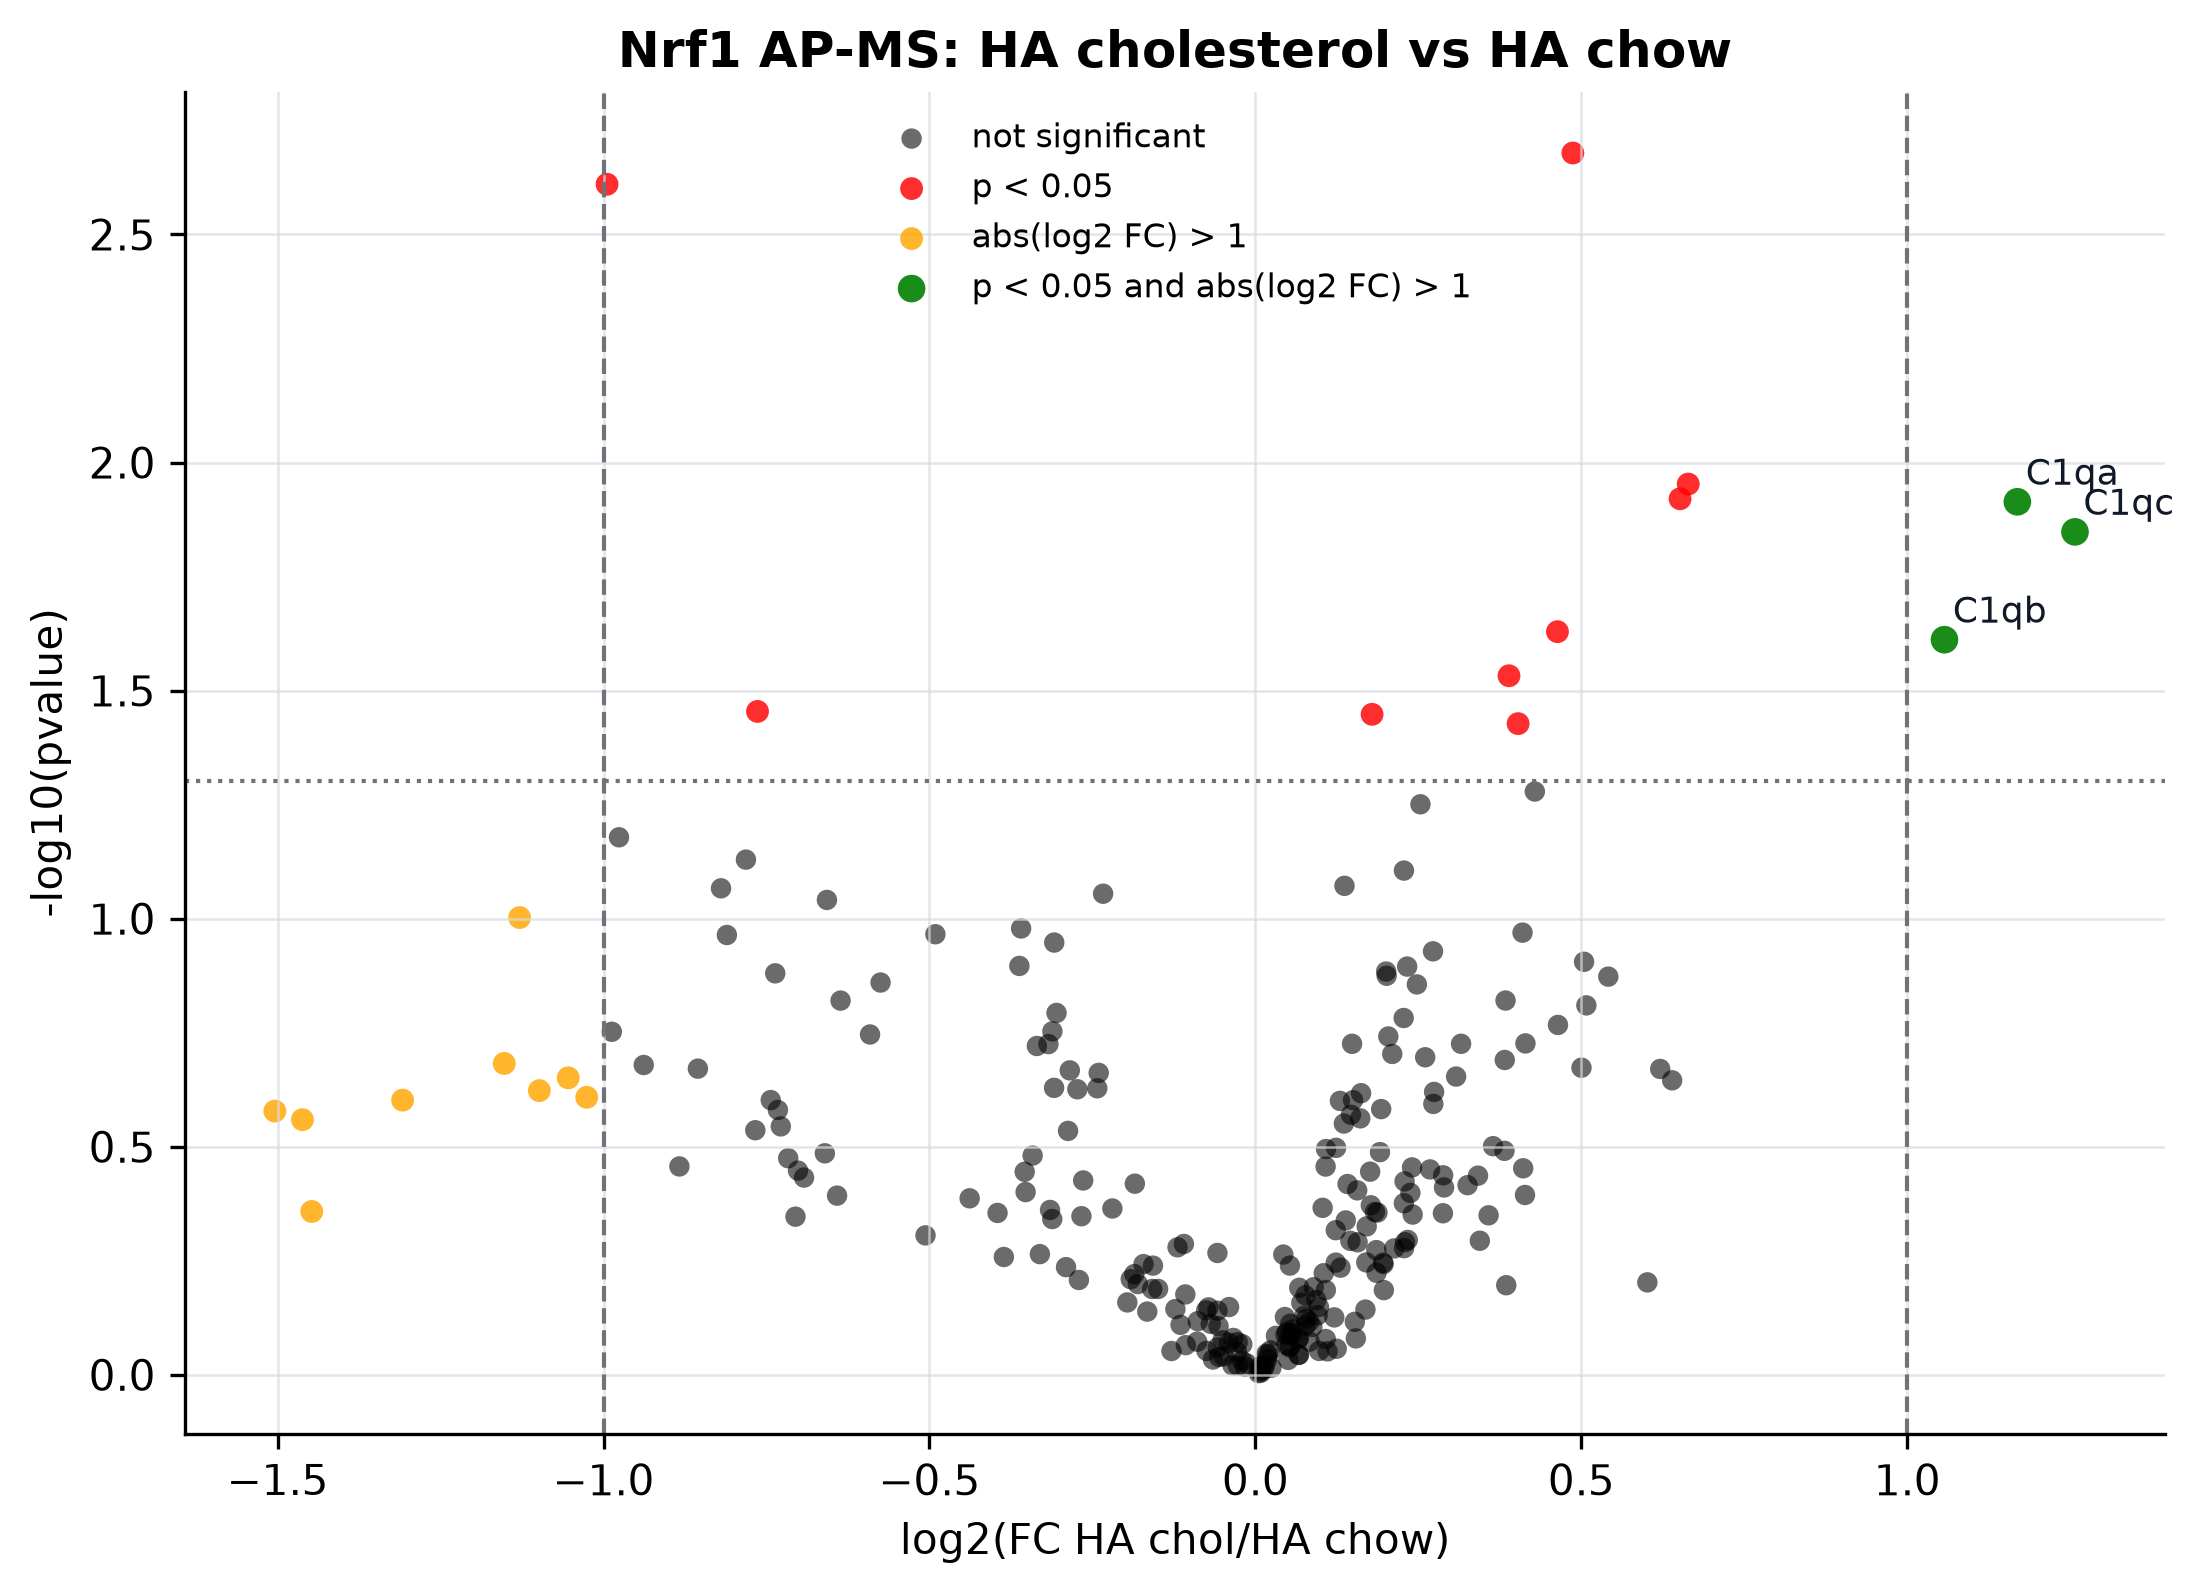
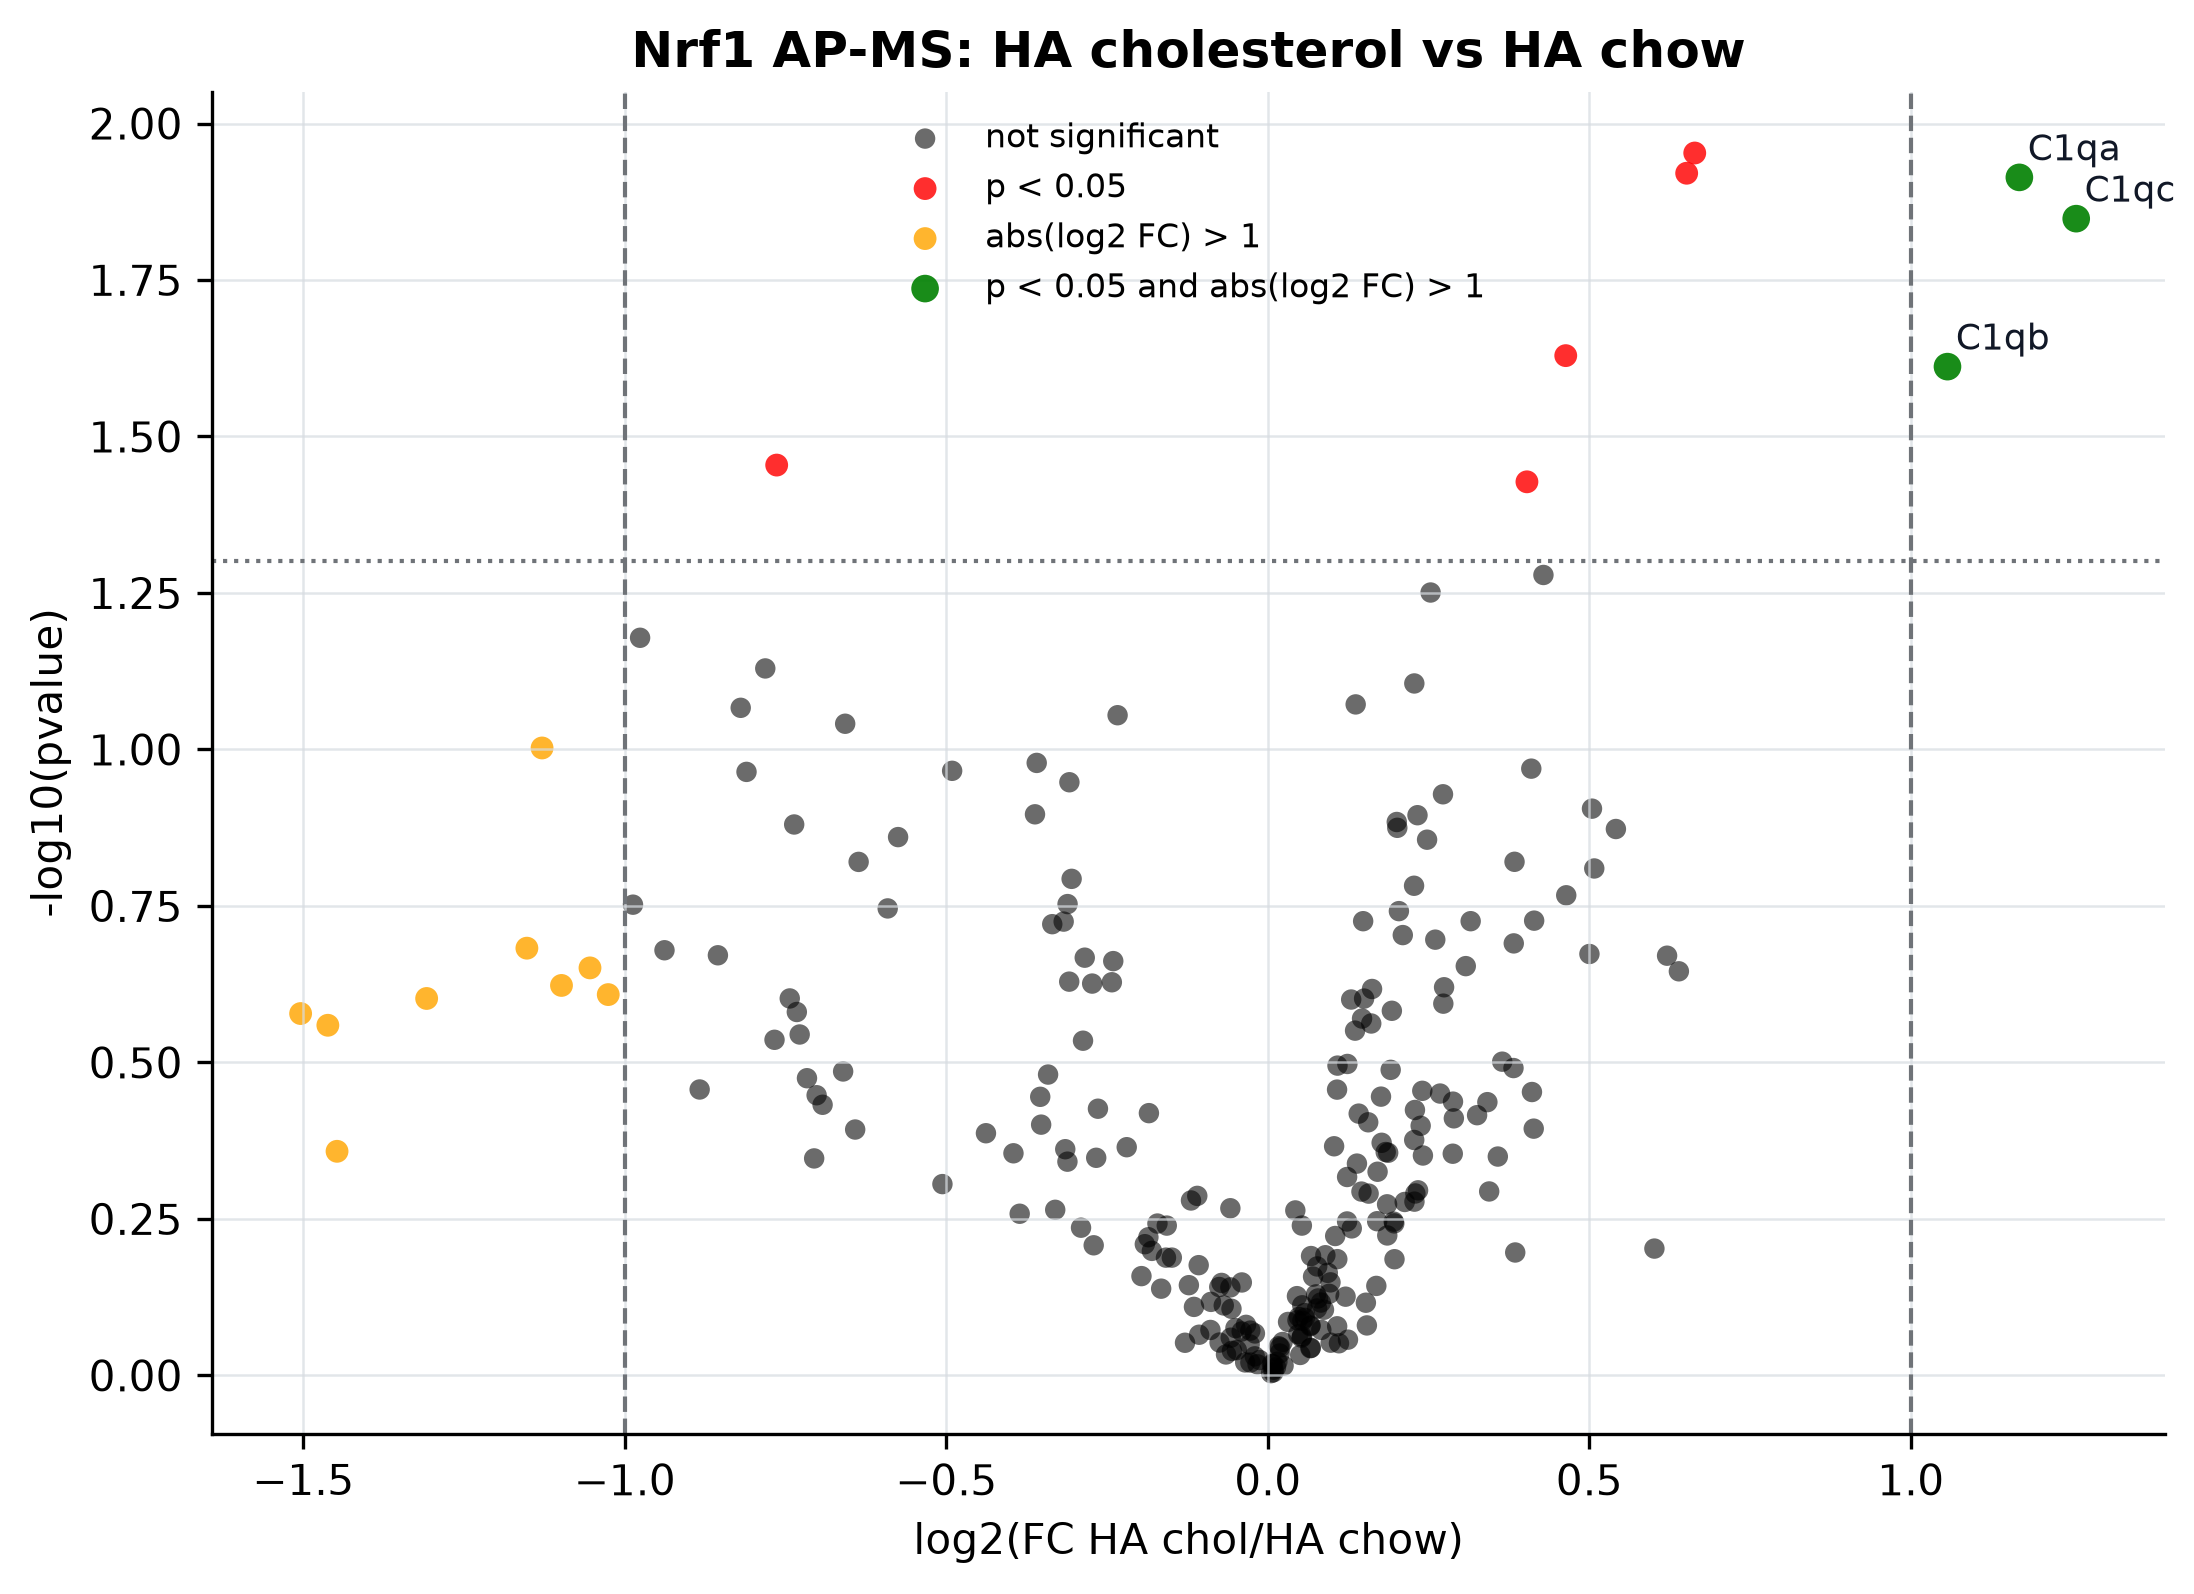
Validate t-test assumptions in volcano plots
Volcano plots currently classify every t-test p-value below 0.05 as
significant without recording whether the source data satisfy normality
and equal-variance assumptions. This can retain assumption-violating
hits and hide the diagnostics needed to review each comparison.

This commit will add t-test assumption validation diagnostics.
Shapiro-Wilk tests will be used to assess normality within each
treatment group, and median-centered Levene tests will be used to assess
homogeneity of variance for each t-test. Points that fail assumptions
will be omitted from plots.

- https://docs.scipy.org/doc/scipy/reference/generated/scipy.stats.levene.html
- https://docs.scipy.org/doc/scipy/reference/generated/scipy.stats.shapiro.html
- https://docs.scipy.org/doc/scipy/reference/generated/scipy.stats.ttest_ind.html

diff --git a/src/nrf1_proteomics/analysis.py b/src/nrf1_proteomics/analysis.py
@@ -98,9 +98,23 @@ OUTPUT_COLUMNS = (
     "log2_FC_HAchol_HAchow",
     "log2_FC_HAchow_lacZ",
     "pvalue",
+    "levene_statistic_HAchol_HAchow",
+    "levene_pvalue_HAchol_HAchow",
     "pvaluechow",
+    "levene_statistic_HAchow_lacZ",
+    "levene_pvalue_HAchow_lacZ",
     "log2_FC_HAbort_HAchow",
     "pvaluebort",
+    "levene_statistic_HAbort_HAchow",
+    "levene_pvalue_HAbort_HAchow",
+    "shapiro_statistic_lacZ",
+    "shapiro_pvalue_lacZ",
+    "shapiro_statistic_HAchow",
+    "shapiro_pvalue_HAchow",
+    "shapiro_statistic_HAchol",
+    "shapiro_pvalue_HAchol",
+    "shapiro_statistic_HAbort",
+    "shapiro_pvalue_HAbort",
 )
 
 
@@ -214,21 +228,37 @@ def _calculate_pvalues(ratios: pl.DataFrame) -> pl.DataFrame:
 
     for raw_row in ratios.select(ratio_columns).iter_rows(named=True):
         row = cast(Mapping[str, object], raw_row)
+        lacz = _row_values(row, GROUP_RATIO_COLUMNS["lacz"])
+        ha_chow = _row_values(row, GROUP_RATIO_COLUMNS["ha_chow"])
+        ha_chol = _row_values(row, GROUP_RATIO_COLUMNS["ha_chol"])
+        ha_bort = _row_values(row, GROUP_RATIO_COLUMNS["ha_bort"])
+        chol_chow_levene = _levene_diagnostics(ha_chol, ha_chow)
+        chow_lacz_levene = _levene_diagnostics(ha_chow, lacz)
+        bort_chow_levene = _levene_diagnostics(ha_bort, ha_chow)
+        lacz_shapiro = _shapiro_diagnostics(lacz)
+        ha_chow_shapiro = _shapiro_diagnostics(ha_chow)
+        ha_chol_shapiro = _shapiro_diagnostics(ha_chol)
+        ha_bort_shapiro = _shapiro_diagnostics(ha_bort)
         rows.append(
             {
                 "protein_id": str(row["protein_id"]),
-                "pvalue": _t_test_pvalue(
-                    _row_values(row, GROUP_RATIO_COLUMNS["ha_chol"]),
-                    _row_values(row, GROUP_RATIO_COLUMNS["ha_chow"]),
-                ),
-                "pvaluechow": _t_test_pvalue(
-                    _row_values(row, GROUP_RATIO_COLUMNS["ha_chow"]),
-                    _row_values(row, GROUP_RATIO_COLUMNS["lacz"]),
-                ),
-                "pvaluebort": _t_test_pvalue(
-                    _row_values(row, GROUP_RATIO_COLUMNS["ha_bort"]),
-                    _row_values(row, GROUP_RATIO_COLUMNS["ha_chow"]),
-                ),
+                "pvalue": _t_test_pvalue(ha_chol, ha_chow),
+                "levene_statistic_HAchol_HAchow": chol_chow_levene[0],
+                "levene_pvalue_HAchol_HAchow": chol_chow_levene[1],
+                "pvaluechow": _t_test_pvalue(ha_chow, lacz),
+                "levene_statistic_HAchow_lacZ": chow_lacz_levene[0],
+                "levene_pvalue_HAchow_lacZ": chow_lacz_levene[1],
+                "pvaluebort": _t_test_pvalue(ha_bort, ha_chow),
+                "levene_statistic_HAbort_HAchow": bort_chow_levene[0],
+                "levene_pvalue_HAbort_HAchow": bort_chow_levene[1],
+                "shapiro_statistic_lacZ": lacz_shapiro[0],
+                "shapiro_pvalue_lacZ": lacz_shapiro[1],
+                "shapiro_statistic_HAchow": ha_chow_shapiro[0],
+                "shapiro_pvalue_HAchow": ha_chow_shapiro[1],
+                "shapiro_statistic_HAchol": ha_chol_shapiro[0],
+                "shapiro_pvalue_HAchol": ha_chol_shapiro[1],
+                "shapiro_statistic_HAbort": ha_bort_shapiro[0],
+                "shapiro_pvalue_HAbort": ha_bort_shapiro[1],
             }
         )
 
@@ -260,3 +290,27 @@ def _t_test_pvalue(sample: Sequence[float], reference: Sequence[float]) -> float
             alternative="two-sided",
         )[1],
     )
+
+
+def _levene_diagnostics(
+    sample: Sequence[float], reference: Sequence[float]
+) -> tuple[float, float]:
+    """Report homogeneity of variance for each Student t-test.
+
+    A median-centered Levene test is used because it is robust to skew and outliers.
+    A variance-ratio F test is sensitive to departures from normality.
+    """
+
+    result = scipy.stats.levene(sample, reference, center="median")
+    return cast(float, result.statistic), cast(float, result.pvalue)
+
+
+def _shapiro_diagnostics(sample: Sequence[float]) -> tuple[float, float]:
+    """Report normality for observations within one treatment group.
+
+    Student t-tests assume normally distributed populations. Shapiro-Wilk is applied to
+    each group's raw observations rather than pooling groups with different means.
+    """
+
+    result = scipy.stats.shapiro(sample)
+    return cast(float, result.statistic), cast(float, result.pvalue)

diff --git a/tests/test_analysis.py b/tests/test_analysis.py
@@ -11,18 +11,32 @@ PROJECT_ROOT = Path(__file__).resolve().parents[1]
 RAW_DATA = PROJECT_ROOT / "data" / "nrf1-proteomics-raw.csv"
 
 
-def test_analysis_returns_historical_shape_and_columns() -> None:
+def test_analysis_returns_expected_shape_and_columns() -> None:
     result = analyze_raw_data(RAW_DATA)
 
-    assert result.shape == (252, 7)
+    assert result.shape == (252, 21)
     assert result.columns == [
         "Gene",
         "log2_FC_HAchol_HAchow",
         "log2_FC_HAchow_lacZ",
         "pvalue",
+        "levene_statistic_HAchol_HAchow",
+        "levene_pvalue_HAchol_HAchow",
         "pvaluechow",
+        "levene_statistic_HAchow_lacZ",
+        "levene_pvalue_HAchow_lacZ",
         "log2_FC_HAbort_HAchow",
         "pvaluebort",
+        "levene_statistic_HAbort_HAchow",
+        "levene_pvalue_HAbort_HAchow",
+        "shapiro_statistic_lacZ",
+        "shapiro_pvalue_lacZ",
+        "shapiro_statistic_HAchow",
+        "shapiro_pvalue_HAchow",
+        "shapiro_statistic_HAchol",
+        "shapiro_pvalue_HAchol",
+        "shapiro_statistic_HAbort",
+        "shapiro_pvalue_HAbort",
     ]
     assert result.filter(pl.col("Gene") == "").height == 3
 
@@ -60,6 +74,29 @@ def test_analysis_finds_expected_cholesterol_hits() -> None:
     )
 
     assert result.filter(pl.col("delta_cholesterol") > 0.58).height == 33
+
+
+def test_analysis_reports_assumption_diagnostics() -> None:
+    result = analyze_raw_data(RAW_DATA)
+
+    assert_gene_values(
+        result,
+        "C1qc",
+        levene_statistic_HAchol_HAchow=0.295478093,
+        levene_pvalue_HAchol_HAchow=0.606322291,
+        levene_statistic_HAchow_lacZ=1.129876915,
+        levene_pvalue_HAchow_lacZ=0.318832044,
+        levene_statistic_HAbort_HAchow=1.862373617,
+        levene_pvalue_HAbort_HAchow=0.221312430,
+        shapiro_statistic_lacZ=0.867348296,
+        shapiro_pvalue_lacZ=0.215838173,
+        shapiro_statistic_HAchow=0.966296036,
+        shapiro_pvalue_HAchow=0.818429709,
+        shapiro_statistic_HAchol=0.901411048,
+        shapiro_pvalue_HAchol=0.438101849,
+        shapiro_statistic_HAbort=0.878424133,
+        shapiro_pvalue_HAbort=0.331949023,
+    )
 
 
 def assert_gene_values(

diff --git a/tests/test_plots.py b/tests/test_plots.py
@@ -10,6 +10,12 @@ PROJECT_ROOT = Path(__file__).resolve().parents[1]
 RAW_DATA = PROJECT_ROOT / "data" / "nrf1-proteomics-raw.csv"
 
 
+def _passing_assumptions(
+    spec: nrf1_proteomics.plots.VolcanoPlotSpec, row_count: int
+) -> dict[str, list[float]]:
+    return {column: [0.5] * row_count for column in spec.assumption_pvalue_columns}
+
+
 def test_prepare_volcano_data_assigns_original_point_colors() -> None:
     spec = nrf1_proteomics.plots.VOLCANO_PLOTS[0]
     analysis = pl.DataFrame(
@@ -17,6 +23,7 @@ def test_prepare_volcano_data_assigns_original_point_colors() -> None:
             "Gene": ["background", "pvalue", "fold_change", "both"],
             spec.x_column: [0.5, 0.5, 1.5, 1.5],
             spec.pvalue_column: [0.5, 0.01, 0.5, 0.01],
+            **_passing_assumptions(spec, 4),
         }
     )
 
@@ -27,6 +34,36 @@ def test_prepare_volcano_data_assigns_original_point_colors() -> None:
         (nrf1_proteomics.plots.PVALUE_ONLY, "red"),
         (nrf1_proteomics.plots.FOLD_CHANGE_ONLY, "orange"),
         (nrf1_proteomics.plots.PVALUE_AND_FOLD_CHANGE, "green"),
+    ]
+
+
+def test_prepare_volcano_data_excludes_invalid_significant_results() -> None:
+    spec = nrf1_proteomics.plots.VOLCANO_PLOTS[0]
+    assumptions = _passing_assumptions(spec, 5)
+    for row_index, column in enumerate(spec.assumption_pvalue_columns):
+        assumptions[column][row_index] = 0.01
+    assumptions[spec.assumption_pvalue_columns[0]][3] = 0.01
+
+    analysis = pl.DataFrame(
+        {
+            "Gene": [
+                "levene_failure",
+                "first_shapiro_failure",
+                "second_shapiro_failure",
+                "nonsignificant_failure",
+                "valid_significant",
+            ],
+            spec.x_column: [0.5, 0.5, 1.5, 0.5, 1.5],
+            spec.pvalue_column: [0.01, 0.01, 0.01, 0.5, 0.01],
+            **assumptions,
+        }
+    )
+
+    plot_data = nrf1_proteomics.plots.prepare_volcano_data(analysis, spec)
+
+    assert plot_data.select("Gene", "volcano_category").rows() == [
+        ("nonsignificant_failure", nrf1_proteomics.plots.BACKGROUND),
+        ("valid_significant", nrf1_proteomics.plots.PVALUE_AND_FOLD_CHANGE),
     ]
 
 
@@ -51,6 +88,7 @@ def test_plot_volcano_labels_points_meeting_both_thresholds() -> None:
             "Gene": ["background", "pvalue", "fold_change", "both_a", "both_b"],
             spec.x_column: [0.5, 0.5, 1.5, 1.5, -1.5],
             spec.pvalue_column: [0.5, 0.01, 0.5, 0.01, 0.01],
+            **_passing_assumptions(spec, 5),
         }
     )
 

diff --git a/src/nrf1_proteomics/plots.py b/src/nrf1_proteomics/plots.py
@@ -18,6 +18,7 @@ from nrf1_proteomics.analysis import DEFAULT_RAW_DATA, PROJECT_ROOT, analyze_raw
 DEFAULT_FIGURE_DIR = PROJECT_ROOT / "figures"
 FOLD_CHANGE_THRESHOLD = 1.0
 PVALUE_THRESHOLD = 0.05
+ASSUMPTION_PVALUE_THRESHOLD = 0.05
 
 BACKGROUND = "not significant"
 PVALUE_ONLY = "p < 0.05"
@@ -43,6 +44,7 @@ class VolcanoPlotSpec:
     filename: str
     x_column: str
     pvalue_column: str
+    assumption_pvalue_columns: tuple[str, ...]
     title: str
     xlabel: str
 
@@ -53,6 +55,11 @@ VOLCANO_PLOTS = (
         filename="results-hachol.png",
         x_column="log2_FC_HAchol_HAchow",
         pvalue_column="pvalue",
+        assumption_pvalue_columns=(
+            "levene_pvalue_HAchol_HAchow",
+            "shapiro_pvalue_HAchol",
+            "shapiro_pvalue_HAchow",
+        ),
         title="Nrf1 AP-MS: HA cholesterol vs HA chow",
         xlabel="log2(FC HA chol/HA chow)",
     ),
@@ -61,6 +68,11 @@ VOLCANO_PLOTS = (
         filename="results-habort.png",
         x_column="log2_FC_HAbort_HAchow",
         pvalue_column="pvaluebort",
+        assumption_pvalue_columns=(
+            "levene_pvalue_HAbort_HAchow",
+            "shapiro_pvalue_HAbort",
+            "shapiro_pvalue_HAchow",
+        ),
         title="Nrf1 AP-MS: HA bortezomib vs HA chow",
         xlabel="log2(FC HA bort/HA chow)",
     ),
@@ -69,6 +81,11 @@ VOLCANO_PLOTS = (
         filename="results-hachow-lacz.png",
         x_column="log2_FC_HAchow_lacZ",
         pvalue_column="pvaluechow",
+        assumption_pvalue_columns=(
+            "levene_pvalue_HAchow_lacZ",
+            "shapiro_pvalue_HAchow",
+            "shapiro_pvalue_lacZ",
+        ),
         title="Nrf1 AP-MS: HA chow vs lacZ",
         xlabel="log2(FC HA chow/lacZ)",
     ),
@@ -80,14 +97,25 @@ def prepare_volcano_data(
     spec: VolcanoPlotSpec,
     fold_change_threshold: float = FOLD_CHANGE_THRESHOLD,
     pvalue_threshold: float = PVALUE_THRESHOLD,
+    assumption_pvalue_threshold: float = ASSUMPTION_PVALUE_THRESHOLD,
 ) -> pl.DataFrame:
-    """Add plotting columns for one volcano plot from an analyzed DataFrame."""
+    """Add plotting columns and omit significant rows that fail assumptions."""
 
     fold_change_significant = pl.col("log2_fold_change").abs() > fold_change_threshold
     pvalue_significant = pl.col("pvalue") < pvalue_threshold
+    assumption_failed = pl.any_horizontal(
+        *(
+            pl.col(column) < assumption_pvalue_threshold
+            for column in spec.assumption_pvalue_columns
+        )
+    )
+    significant_assumption_failure = (
+        pl.col(spec.pvalue_column) < pvalue_threshold
+    ) & assumption_failed
 
     return (
-        analysis.select(
+        analysis.filter(~significant_assumption_failure)
+        .select(
             "Gene",
             pl.col(spec.x_column).alias("log2_fold_change"),
             pl.col(spec.pvalue_column).alias("pvalue"),
@@ -134,6 +162,7 @@ def plot_volcano(
     label_genes: Sequence[str] | None = None,
     fold_change_threshold: float = FOLD_CHANGE_THRESHOLD,
     pvalue_threshold: float = PVALUE_THRESHOLD,
+    assumption_pvalue_threshold: float = ASSUMPTION_PVALUE_THRESHOLD,
 ) -> Figure:
     """Create a volcano plot from an analyzed Polars DataFrame."""
 
@@ -142,6 +171,7 @@ def plot_volcano(
         spec=spec,
         fold_change_threshold=fold_change_threshold,
         pvalue_threshold=pvalue_threshold,
+        assumption_pvalue_threshold=assumption_pvalue_threshold,
     )
     fig, ax = plt.subplots(figsize=(7.2, 5.2), dpi=150, constrained_layout=True)
 

diff --git a/README.md b/README.md
@@ -121,10 +121,10 @@ The steps performed were:
    - Background subtraction was not effective in these samples because protein abundance was greater in lacZ than HA in many cases.
    - Proteins with an HA fold change below 1 (`(HA cont/mix)/(lacZ/mix)<1`) (meaning that the proteins were higher abundance in lacZ samples without the HA tag) could potentially be excluded, but were retained for this analysis.
 5. Statistical tests
-   - A fold change of 1.5 (log2=0.58) is commonly used as a threshold for biological significance.
-   - 33 proteins had `∆Cholesterol>0.58`.
-   - T-tests were performed to identify significant hits.
-   - Analysis of Variance (ANOVA) was performed on the untransformed total summed signal to noise/mix values for all the significant hits.
+   - A fold change of 1.5 (log2=0.58) is commonly used as a threshold for biological significance and was used here.
+   - Two-sided independent Student t-tests were performed on the untransformed, mix-normalized signal ratios for HA cholesterol versus HA chow, HA bortezomib versus HA chow, and HA chow versus lacZ.
+   - Shapiro-Wilk tests were used to assess normality within each treatment group, and median-centered Levene tests were used to assess homogeneity of variance for each t-test.
+   - A result with a t-test `p<0.05` was excluded from its volcano plot if it failed the assumptions of the t-test (if its Levene test or either relevant Shapiro-Wilk test also had `p<0.05`).
 
 Further details can be found in the mass spectrometry protocol and electronic lab notebook entry in the [supplementary data](#supplementary-data).
 
@@ -138,6 +138,7 @@ In the volcano plots:
   - Red if `p<0.05` for the comparison shown
   - Orange if `[log2 fold change]>1`
   - Green if both
+- A protein with `p<0.05` is omitted if it fails the assumptions of the t-test.
 - log2 transformation is used to normalize positive and negative fold changes.
 - `-log10(pvalue)` is used so p values can be plotted as whole numbers.
 